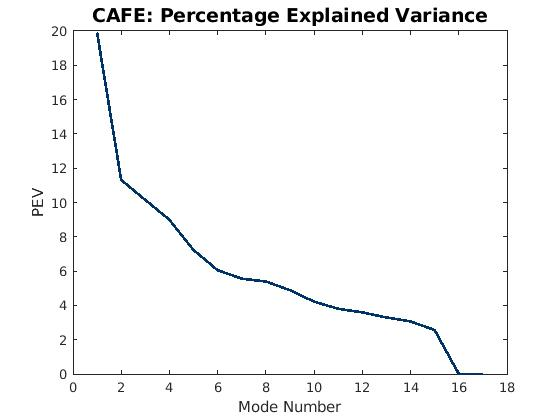
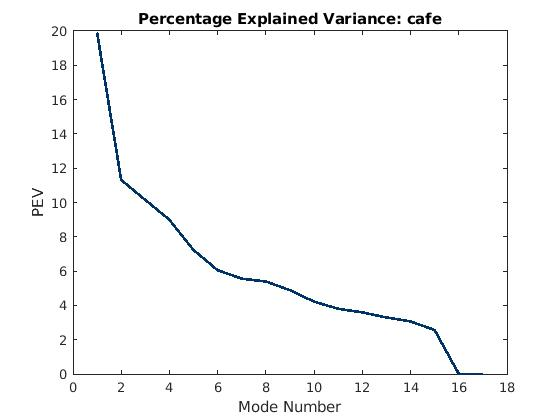
Plot EOF results for annual mean GS NPP

Changed region(s): [[0.1518, 0.0, 0.8804, 0.0619]]

diff --git a/notebooks/EOF_analysis_remote.m b/notebooks/EOF_analysis_remote.m
@@ -34,7 +34,7 @@ years=years';
 
 time=1:length(2003:2020);
 time=time';
-[EOF.(algorithm{aix}).JAN_ev_index,EOF.(algorithm{aix}).JAN_tda,EOF.(algorithm{aix}).JAN_pev,EOF.(algorithm{aix}).trends] = calc_pigup_EOF2(NPP_years.(algorithm{aix}).annual_day_nan_box,time)
+[EOF.(algorithm{aix}).JAN_ev_index,EOF.(algorithm{aix}).JAN_tda,EOF.(algorithm{aix}).JAN_pev,EOF.(algorithm{aix}).trends] = calc_pigup_EOF2(NPP_years.(algorithm{aix}).jan_rates_box,time)
 
 end
 
@@ -64,36 +64,45 @@ title('Mode 1 Pattern','fontsize',14);
 sgt = sgtitle('VGPM growing season average NPP WG SVD EOF','FontWeight','bold');
 sgt.FontSize = 18;
 
+
+plot_folder=['/noc/users/ccd1n18/Documents/Projects/CarbonUptakeInWG/figures'];
+
+
+
+for aix = 4%1:length(algorithm)
 figure;
-plot(pev,'Color',[0,0.2,0.4],'LineWidth',2);
+plot(EOF.(algorithm{aix}).pev,'Color',[0,0.2,0.4],'LineWidth',2);
 ylabel('PEV');
 xlabel('Mode Number')
-title('CAFE: Percentage Explained Variance','fontsize',14);
+title(['Percentage Explained Variance: ' ,(algorithm{aix}),'']);
+
+%print('-dpng',[plot_folder ['PEV_',(algorithm(aix)), '.png']])
+
 
 figure('units','normalized','outerposition',[0 0 1 1])
 subplot(2,4,1);
-plot(tda(:,1),'r','LineWidth',2);ylabel('PEV');
+plot(EOF.(algorithm{aix}).tda(:,1),'r','LineWidth',2);ylabel('PEV');
 hold on
 yline(0)
 ylabel('TDA');
 xlabel('Year #')
 title('Mode 1 Time Dependent Amplidtude','fontsize',14);
 subplot(2,4,2);
-plot(tda(:,2),'r','LineWidth',2);ylabel('PEV');
+plot(EOF.(algorithm{aix}).tda(:,2),'r','LineWidth',2);ylabel('PEV');
 hold on
 yline(0)
 ylabel('TDA');
 xlabel('Year #')
 title('Mode 2 TDA','fontsize',14);
 subplot(2,4,3);
-plot(tda(:,3),'r','LineWidth',2);ylabel('PEV');
+plot(EOF.(algorithm{aix}).tda(:,3),'r','LineWidth',2);ylabel('PEV');
 hold on
 yline(0)
 ylabel('TDA');
 xlabel('Year #')
 title('Mode 3 TDA','fontsize',14);
 subplot(2,4,4);
-plot(tda(:,4),'r','LineWidth',2);ylabel('PEV');
+plot(EOF.(algorithm{aix}).tda(:,4),'r','LineWidth',2);ylabel('PEV');
 hold on
 yline(0)
 ylabel('TDA');
@@ -101,7 +110,7 @@ xlabel('Year #')
 title('Mode 4 TDA','fontsize',14);
 
 subplot(2,4,5);
-pcolor(lon_m_box,lat_m_box,ev_index(:,:,1)); 
+pcolor(lon_m_box,lat_m_box,EOF.(algorithm{aix}).ev_index(:,:,1)); 
 shading flat
 hold on 
 plot(3,-66,'k*')
@@ -110,7 +119,7 @@ colormap(jet);
 geoshow('landareas.shp','facecolor','k')
 title('Mode 1 Pattern','fontsize',14);
 subplot(2,4,6);
-pcolor(lon_m_box,lat_m_box,ev_index(:,:,2)); 
+pcolor(lon_m_box,lat_m_box,EOF.(algorithm{aix}).ev_index(:,:,2)); 
 shading flat
 hold on 
 plot(3,-66,'k*')
@@ -119,7 +128,7 @@ colormap(jet);
 geoshow('landareas.shp','facecolor','k')
 title('Mode 2 Pattern','fontsize',14);
 subplot(2,4,7);
-pcolor(lon_m_box,lat_m_box,ev_index(:,:,3)); 
+pcolor(lon_m_box,lat_m_box,EOF.(algorithm{aix}).ev_index(:,:,3)); 
 shading flat
 hold on 
 plot(3,-66,'k*')
@@ -128,7 +137,7 @@ colormap(jet);
 geoshow('landareas.shp','facecolor','k')
 title('Mode 3 Pattern','fontsize',14);
 subplot(2,4,8);
-pcolor(lon_m_box,lat_m_box,ev_index(:,:,4)); 
+pcolor(lon_m_box,lat_m_box,EOF.(algorithm{aix}).ev_index(:,:,4)); 
 shading flat
 hold on 
 plot(3,-66,'k*')
@@ -136,5 +145,7 @@ colorbar
 colormap(jet);
 geoshow('landareas.shp','facecolor','k')
 title('Mode 4 Pattern','fontsize',14);
-suptitle('CAFE')
+suptitle(['' ,(algorithm{aix}), ''])
+%print('-jpeg',[plot_folder ['TDA_patterns_',num2str(algorithm(aix)), '.jpg']])
 
+end
